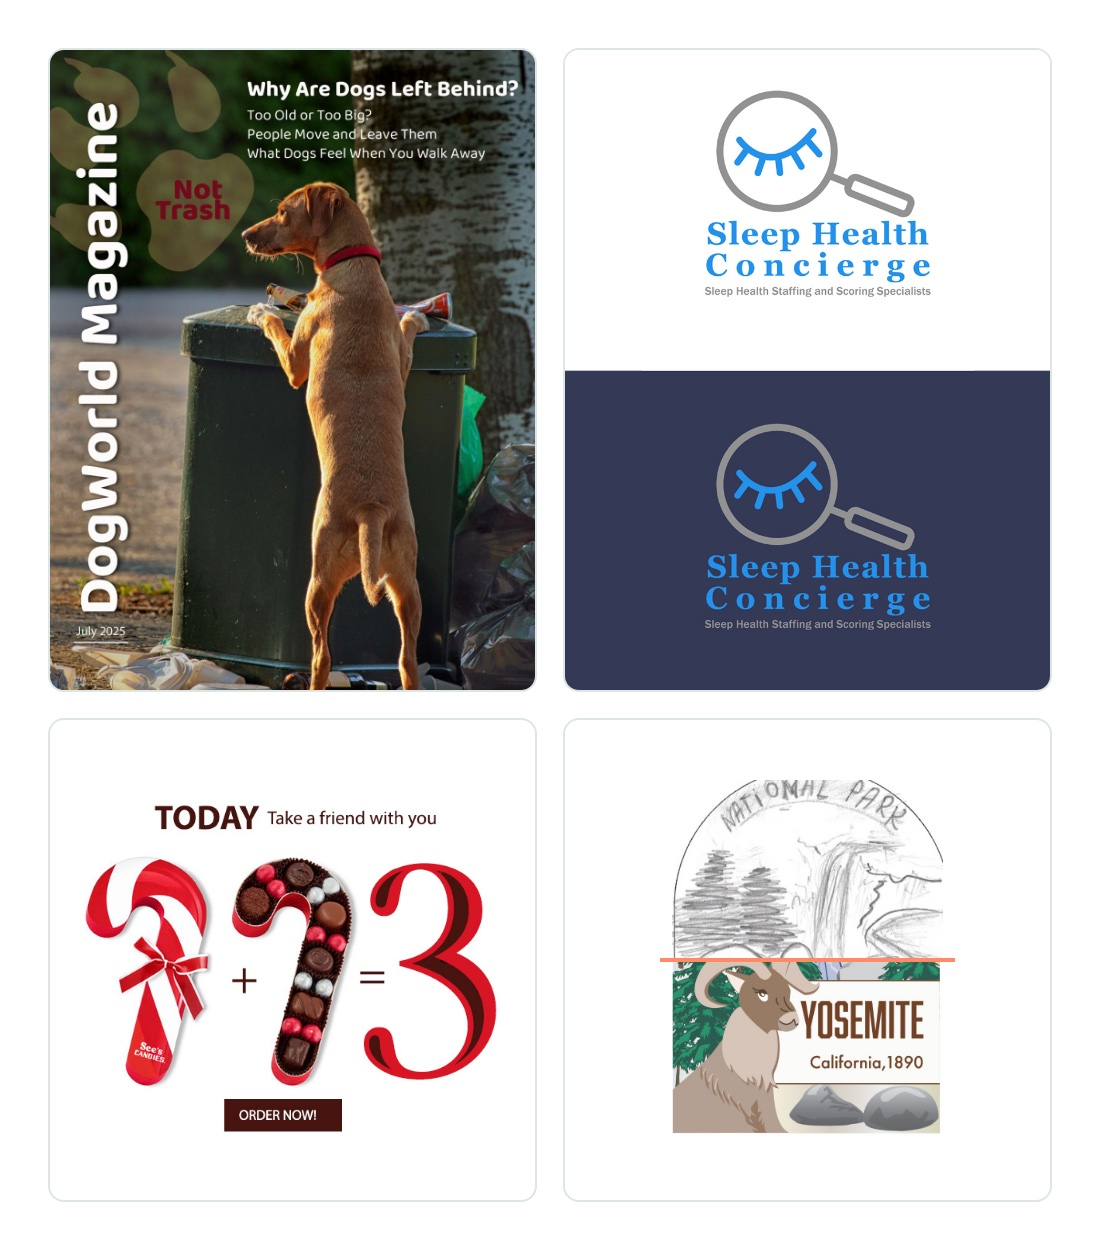
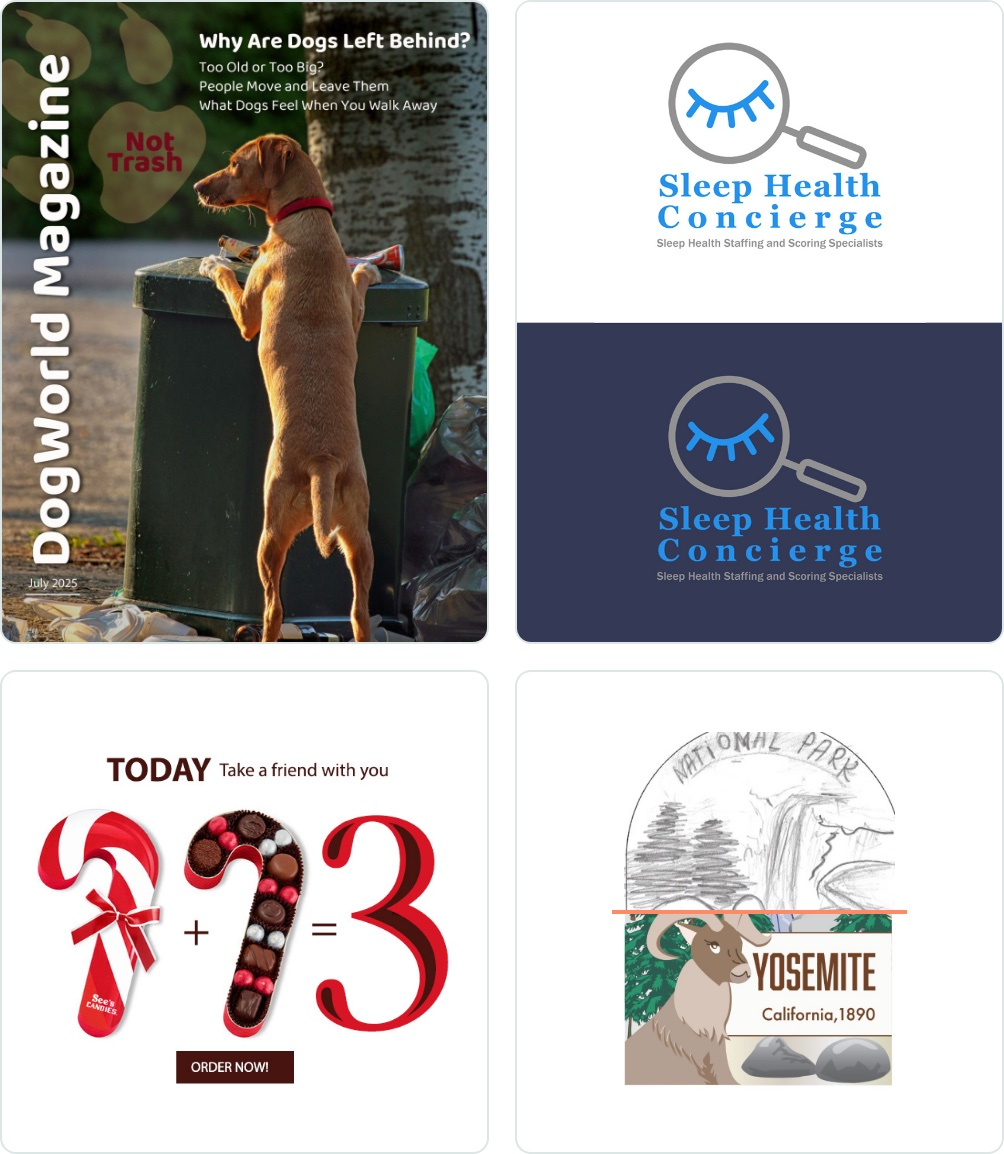
Project tiles: rows sized by Maker Space and the collage; CarMat and SafeArea fill; larger light collage

diff --git a/index.html b/index.html
@@ -13,7 +13,7 @@
 <link rel="preconnect" href="https://fonts.googleapis.com">
 <link rel="preconnect" href="https://fonts.gstatic.com" crossorigin>
 <link rel="stylesheet" href="https://fonts.googleapis.com/css2?family=Geist:wght@400;500;600;700&family=Geist+Mono:wght@400;500;600&display=swap">
-<link rel="stylesheet" href="css/style.css?v=20261112y">
+<link rel="stylesheet" href="css/style.css?v=20261113b">
 </head>
 <body>
 <a class="skip" href="#work">Skip to work</a>
@@ -103,7 +103,7 @@
         <h2>Graphic design<span class="sr"> (opens in a new tab)</span></h2>
         <p>Posters, a magazine cover, an ad and a logo in Photoshop; stickers, book covers and a skateboard deck in Illustrator, from pencil sketch to final. <span class="go" aria-hidden="true">→</span></p>
       </div>
-      <img class="only-light" src="assets/img/graphic-collage-light.jpg" alt=""><img class="only-dark" src="assets/img/graphic-collage.jpg?v=2" alt="">
+      <img class="only-light" src="assets/img/graphic-collage-light.jpg?v=2" alt=""><img class="only-dark" src="assets/img/graphic-collage.jpg?v=2" alt="">
     </a>
 
     <a class="t pic contain" data-cat="web" data-dev href="work/cooking-community.html" target="_blank" rel="noopener">

diff --git a/css/style.css b/css/style.css
@@ -297,3 +297,17 @@ pre.code code{background:none;border:0;padding:0;font-size:14px;overflow-wrap:no
   .top .end{gap:12px}
 }
 @media (min-width:701px){.top{flex-wrap:nowrap}.top .end{flex:none}.top nav{flex-wrap:nowrap}}
+
+/* When project tiles stack one per row, each image takes the full width at its own height */
+@media (max-width:900px){
+  .grid > .t.proj{min-height:0}
+  .t.proj img{flex:none;height:auto;width:auto;max-width:calc(100% - 48px)}
+}
+
+/* Project tiles, side by side: Maker Space and the collage show at full width and set the row height;
+   CarMat and SafeArea fill the same height next to them */
+@media (min-width:901px){
+  .grid > .t.proj{min-height:0}
+  .t.proj[href*="maker"] img,.t.proj[href*="illustration"] img{flex:none;height:auto;width:calc(100% - 48px);object-fit:contain}
+  .t.proj[href*="carmat"] img,.t.proj[href*="safearea"] img{flex:1 1 0px;height:0;min-height:0;width:calc(100% - 48px);object-fit:cover;border-radius:12px}
+}

diff --git a/work/carmat.html b/work/carmat.html
@@ -13,7 +13,7 @@
 <link rel="preconnect" href="https://fonts.googleapis.com">
 <link rel="preconnect" href="https://fonts.gstatic.com" crossorigin>
 <link rel="stylesheet" href="https://fonts.googleapis.com/css2?family=Geist:wght@400;500;600;700&family=Geist+Mono:wght@400;500;600&display=swap">
-<link rel="stylesheet" href="../css/style.css?v=20261112y">
+<link rel="stylesheet" href="../css/style.css?v=20261113b">
 </head>
 <body>
 <a class="skip" href="#main">Skip to content</a>

diff --git a/work/cooking-community.html b/work/cooking-community.html
@@ -13,7 +13,7 @@
 <link rel="preconnect" href="https://fonts.googleapis.com">
 <link rel="preconnect" href="https://fonts.gstatic.com" crossorigin>
 <link rel="stylesheet" href="https://fonts.googleapis.com/css2?family=Geist:wght@400;500;600;700&family=Geist+Mono:wght@400;500;600&display=swap">
-<link rel="stylesheet" href="../css/style.css?v=20261112y">
+<link rel="stylesheet" href="../css/style.css?v=20261113b">
 </head>
 <body>
 <a class="skip" href="#main">Skip to content</a>

diff --git a/work/illustration.html b/work/illustration.html
@@ -13,7 +13,7 @@
 <link rel="preconnect" href="https://fonts.googleapis.com">
 <link rel="preconnect" href="https://fonts.gstatic.com" crossorigin>
 <link rel="stylesheet" href="https://fonts.googleapis.com/css2?family=Geist:wght@400;500;600;700&family=Geist+Mono:wght@400;500;600&display=swap">
-<link rel="stylesheet" href="../css/style.css?v=20261112y">
+<link rel="stylesheet" href="../css/style.css?v=20261113b">
 </head>
 <body>
 <a class="skip" href="#main">Skip to content</a>

diff --git a/work/maker-space.html b/work/maker-space.html
@@ -13,7 +13,7 @@
 <link rel="preconnect" href="https://fonts.googleapis.com">
 <link rel="preconnect" href="https://fonts.gstatic.com" crossorigin>
 <link rel="stylesheet" href="https://fonts.googleapis.com/css2?family=Geist:wght@400;500;600;700&family=Geist+Mono:wght@400;500;600&display=swap">
-<link rel="stylesheet" href="../css/style.css?v=20261112y">
+<link rel="stylesheet" href="../css/style.css?v=20261113b">
 </head>
 <body>
 <a class="skip" href="#main">Skip to content</a>

diff --git a/work/safearea.html b/work/safearea.html
@@ -13,7 +13,7 @@
 <link rel="preconnect" href="https://fonts.googleapis.com">
 <link rel="preconnect" href="https://fonts.gstatic.com" crossorigin>
 <link rel="stylesheet" href="https://fonts.googleapis.com/css2?family=Geist:wght@400;500;600;700&family=Geist+Mono:wght@400;500;600&display=swap">
-<link rel="stylesheet" href="../css/style.css?v=20261112y">
+<link rel="stylesheet" href="../css/style.css?v=20261113b">
 </head>
 <body>
 <a class="skip" href="#main">Skip to content</a>
